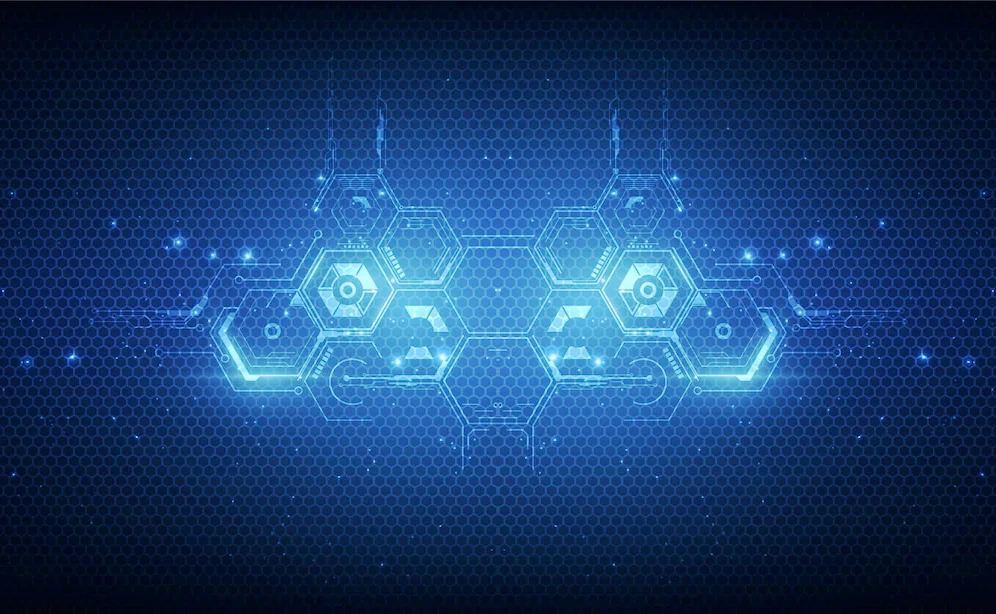
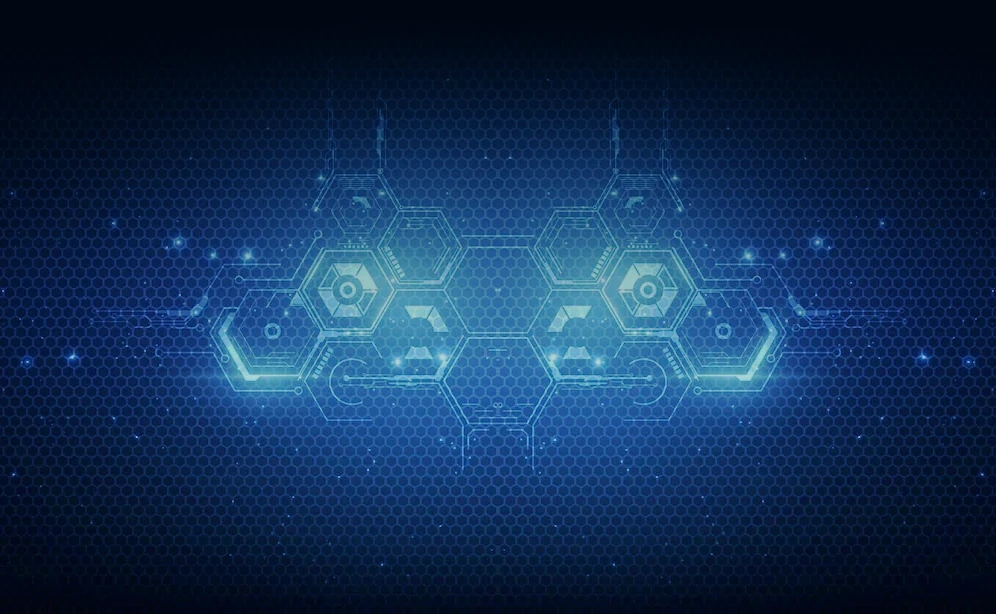
Tweaking main page style

diff --git a/apps/desktop/public/style/main.css b/apps/desktop/public/style/main.css
@@ -3,6 +3,10 @@
   src: url('./Ai.ttf');
 }
 
+.ai-font {
+  font-family: 'AI', 'Montserrat', sans-serif;
+}
+
 body {
   font-family: "Montserrat", sans-serif;
   font-optical-sizing: auto;
@@ -10,8 +14,6 @@ body {
   font-style: normal;
 
   background-color: #000712;
-  /* background: linear-gradient(160deg, #1b2327, #263238); */
-  /* background: linear-gradient(-20deg, #00ff80, #FF007F); */
   color: #ECEFF1;
 
   height: 100vh;
@@ -19,7 +21,7 @@ body {
   flex-direction: column;
 }
 
-#bg, #gradient-bg {
+#bg, #pattern-bg, #gradient-bg, #dark-gradient-bg {
   position: fixed;
   top: 0;
   left: 0;
@@ -30,19 +32,40 @@ body {
 
 #bg {
   background: url('../img/bg1.webp');
-  background-size: 100vw 61.8vw;
+  background-size: 100vw 61.64vw;
   background-repeat: no-repeat;
   background-position: center bottom;
-  filter: blur(10px);
+  filter: blur(8px);
+}
+
+#pattern-bg {
+  background: rgb(144, 194, 197);
+  background: radial-gradient(circle, rgb(144, 194, 197) 0%, rgba(0, 7, 18, 0) 80%);
+  background-clip: text;
+  opacity: 0.1;
+  color: transparent;
+
+  left: -8rem;
+  width: calc(100% + 16rem);
+  word-wrap: break-word;
+  text-align: center;
+  font-size: 32rem;
+  letter-spacing: -3rem;
+  line-height: 24.5rem;
 }
 
 #gradient-bg {
+  background: linear-gradient(340deg, #00ff80, #FF007F);
+  opacity: 0.25;
+}
+
+#dark-gradient-bg {
   position: fixed;
   top: 0;
   left: 0;
   width: 100%;
   height: 100%;
-  background: linear-gradient(to bottom, #000712, #00071240 30rem);
+  background: linear-gradient(to bottom, #000712, #000712b0 20rem, #00071200 36rem, #00071200);
 }
 
 header.title {
@@ -58,10 +81,84 @@ header.title {
   color: #fff;
   background: linear-gradient(160deg, #00ff80, #FF007F);
   background-clip: text;
+
+  animation: flicker 30s ease-in-out infinite;
+  animation-delay: 30s;
+}
+
+@keyframes flicker {
+  0% {
+    color: #fff0
+  }
+
+  1% {
+    color: #fff;
+  }
+
+  2% {
+    color: #fff8;
+  }
+
+  3% {
+    color: #fff3;
+  }
+
+  4% {
+    color: #fffe;
+  }
+
+  5% {
+    color: #fff9;
+  }
+
+  6% {
+    color: #fff4;
+  }
+
+  7% {
+    color: #fff7;
+  }
+
+  8% {
+    color: #fff2;
+  }
+
+  9% {
+    color: #fffc;
+  }
+
+  10% {
+    color: #fff5;
+  }
+
+  11% {
+    color: #fff6;
+  }
+
+  12% {
+    color: #fff1;
+  }
+
+  13% {
+    color: #fffb;
+  }
+
+  14% {
+    color: #fff8;
+  }
+
+  15% {
+    color: #fff3;
+  }
+
+  16% {
+    color: #fff;
+  }
 }
 
 main {
   flex-grow: 1;
+  text-align: center;
 }
 
 footer {
@@ -71,16 +168,13 @@ footer {
   font-size: 0.75rem;
   gap: 0.5rem;
   opacity: 0.5;
+  padding: 0.25rem;
 }
 
 footer b {
   font-weight: 400;
 }
 
-
-.ai-font {
-  font-family: 'AI', 'Montserrat', sans-serif;
-}
 
 .separator.vertical {
   width: 1px;

diff --git a/apps/desktop/public/index.html b/apps/desktop/public/index.html
@@ -21,10 +21,12 @@
 
 <body>
   <div id="bg"></div>
-  <div id="gradient-bg"></div>
+  <div id="pattern-bg" class="ai-font"></div>
+  <div id="gradient-bg" class="ai-font"></div>
+  <div id="dark-gradient-bg"></div>
 
   <header class="ai-font title">Aktyn Assistant</header>
-  <main>todo</main>
+  <main>TODO</main>
   <footer>
     <div>Node.js version: <b id="node-version"></b></div>
     <span class="separator vertical"></span>

diff --git a/apps/desktop/src/ui/renderer.ts b/apps/desktop/src/ui/renderer.ts
@@ -1,1 +1,13 @@
-console.log('meh')
+function generatePatternBackground() {
+  const div = document.getElementById('pattern-bg')
+  if (!div) {
+    console.warn('Pattern background not found in DOM')
+    return
+  }
+
+  div.innerText = Array.from({ length: 100 })
+    .map((_) => 'I')
+    .join('')
+}
+
+generatePatternBackground()

diff --git a/README.md b/README.md
@@ -24,9 +24,16 @@ If you already have an OpenAI account, you can generate an API key [here](https:
 
 ## Development setup
 
-- **`yarn install`**
+#### Prerequisites
+- **`yarn install`** - yarn 4.2.2 or newer is required
+  
+#### Terminal app
 - **`yarn build:all`** and **`yarn start:terminal`** to run the application with terminal interface
 - Some console features doesn't work inside turbo which handles the development run.<br />To make sure the console features work while you develop terminal app you can run **`yarn dev:packages`** to watch changes only in _packages/_ and then **`yarn run build && npx cross-env NODE_ENV=dev yarn start`** from _apps/terminal_ directory
+
+#### Desktop app
+- **`yarn build:all`** and **`yarn start:desktop`** to run the application with desktop interface
+- **`yarn dev:packages`** to watch changes only in _packages/_ and then **`yarn dev:desktop`**
 
 ---
 
